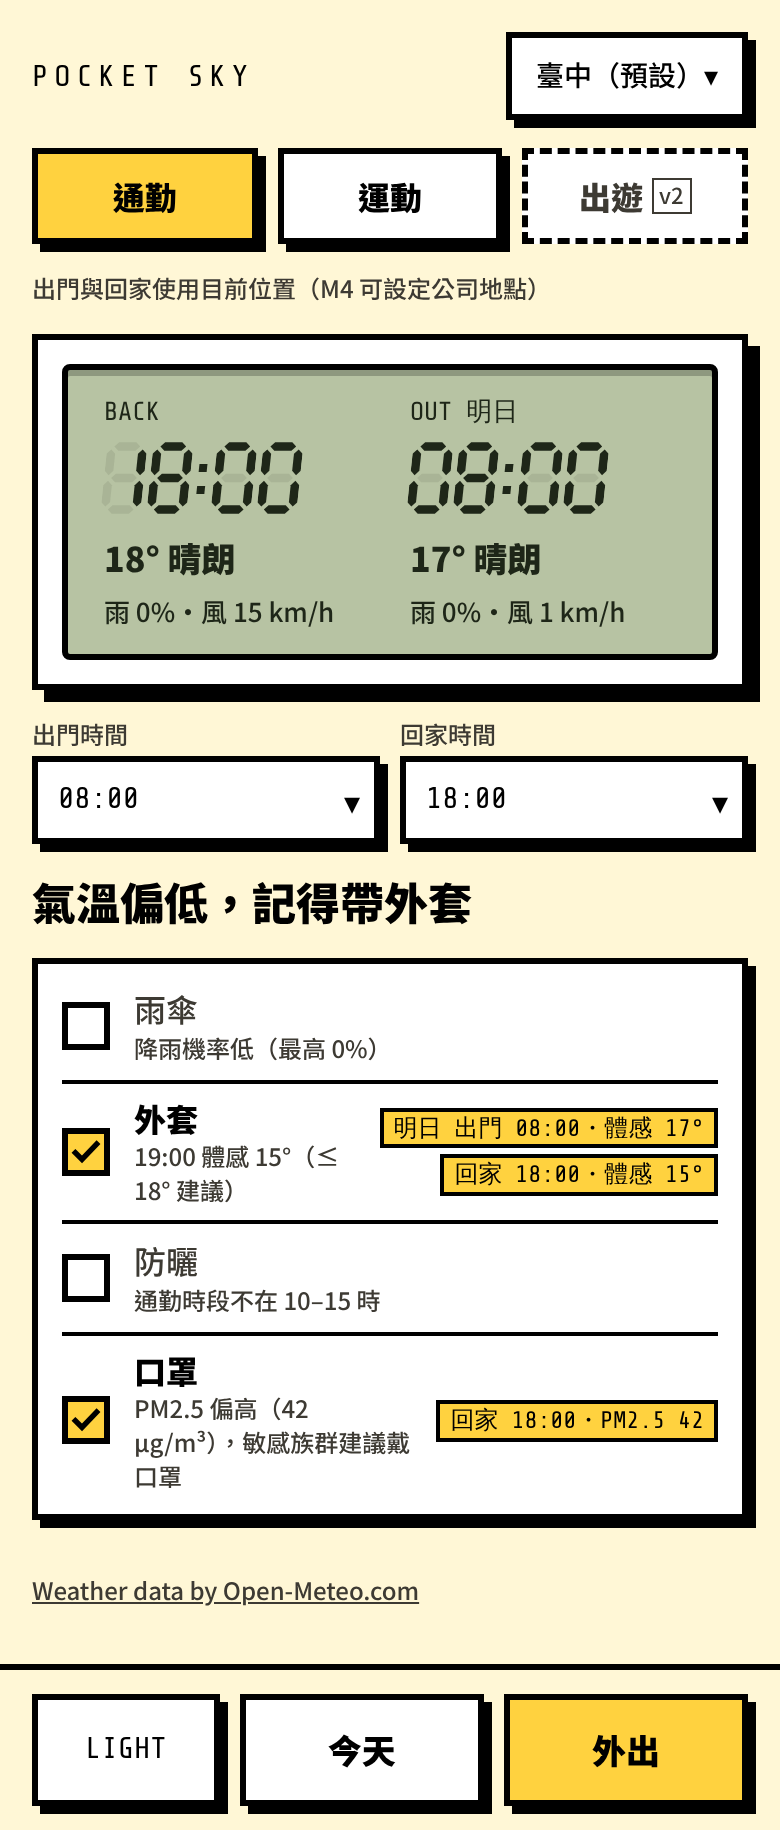
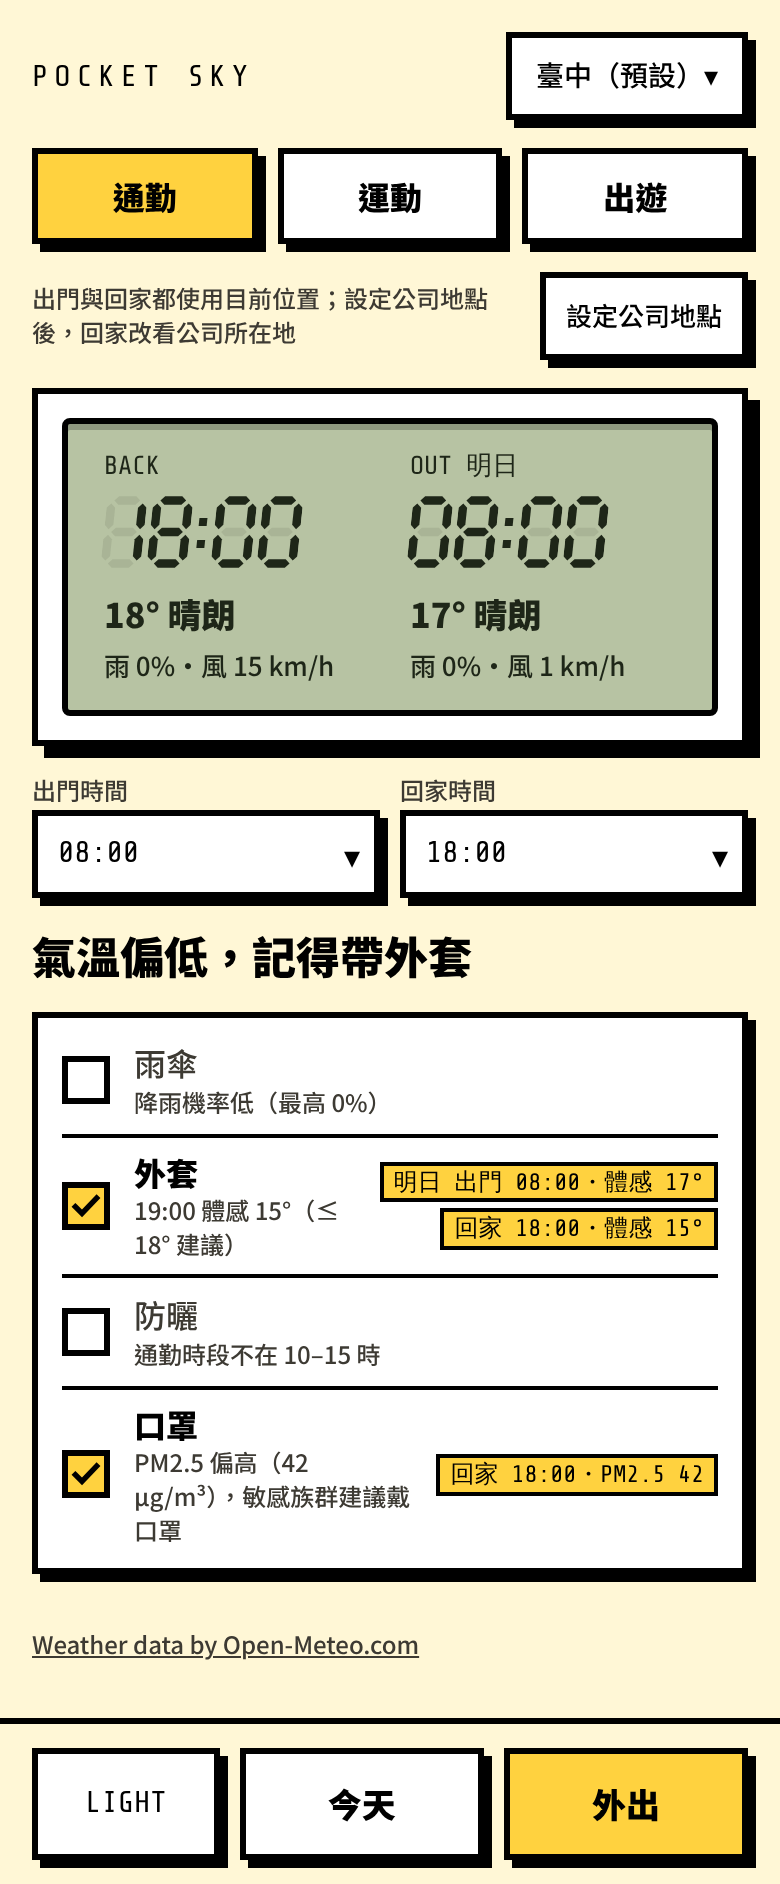
docs(m4): implementation notes, deviations and screenshots
Claude-Session: https://claude.ai/code/session_01Wh9v8ZCiq8tKrRc79SNtfj

Changed region(s): [[0.0, 0.0311, 1.0, 0.9656]]

diff --git a/docs/ARCHITECTURE.md b/docs/ARCHITECTURE.md
@@ -176,7 +176,7 @@ Tokens live in `css/tokens.css` as CSS custom properties; `[data-theme="night"]`
 
 ## M3 — Outing screen (commute & exercise)
 
-Scope: `#outing` with scenario chips 通勤 / 運動 / 出遊 (出遊 disabled, labelled `v2`, `aria-disabled="true"`). Both scenarios use the current location (separate work location and destinations arrive with geocoding search in M4). Visual references (approved wireframes): "A2 外出：通勤" and "A3 外出：運動".
+Scope: `#outing` with scenario chips 通勤 / 運動 / 出遊. (M3 shipped 出遊 disabled as `v2` and a single location; both are superseded by M4 below.) Visual references (approved wireframes): "A2 外出：通勤" and "A3 外出：運動".
 
 ### Routing & persistence
 - Hash routes: `#outing` (opens the last used scenario, default commute), `#outing/commute`, `#outing/exercise`. Bottom key 外出 stays `aria-current` for all of them.
@@ -273,3 +273,15 @@ Scope: a location picker with geocoding search and up to 5 saved places; a work 
 - Unit: places-state (dedupe, max 5, pinned eviction, removal clears refs, invalid storage), searchVariants/searchWithFallback (台→臺 order, empty query, dedupe, Taiwan-first sort), trip rules (window today/tomorrow/wrap, bestWindow ties/min length/nulls, tempDiff, headline branches), controller multi-place (lazy fetch, separate keys, onUpdate routing to the right place, work/trip place errors don't break current).
 - E2E: picker open/close/Esc/focus return; search `台中` → retries `臺中` → result → add → select → Today shows it; delete; max-5 behaviour; set work → commute BACK uses work fixture (synthetic distinct temps); trip with destination fixture (Sun Moon Lake from `forecast-multi.json` element 1) shows diff `-6`-style value computed from fixtures, comfort strip, best window; trip empty state; network error in search; manifest link valid JSON with icons that load (200); axe 0 serious/critical for picker (open dialog) and trip (day/night); no console errors/CSP violations; screenshots `docs/screenshots/m4/` (`picker.png`, `picker-results.png`, `commute-work.png`, `trip-day.png`, `trip-night.png`, `trip-empty.png`) gated by `E2E_SCREENSHOTS=1`.
 - Contract test: geocoding `臺中市` returns ≥ 1 Taiwan result. **Decision (lead, from live API probing 2026-11-21):** the geocoder only matches full Chinese names with their administrative suffix. `臺中市`, `台北市`, `花蓮市` and `日月潭` hit; `台中`, `臺中`, `花蓮`, `花蓮縣` and `墾丁` return 0; English (`Hualien`, `Taichung`) works well. Hence `searchVariants` tries the original, the 台/臺-swapped spelling (`臺中市` hits but `台北市` hits and `臺北市` does not, so both spellings are needed) and the `市`-suffixed forms. Counties (`花蓮縣`) and scenic names without a matching record (`墾丁`) still need an English name, which the empty-state hint suggests.
+
+### M4 implementation notes and decisions
+- **Controller** (`js/app/controller.js`): state gains `current` (`'gps'` or a place id) and `places` (`{ [forecastCacheKey]: { status, vm, error, fetchedAt } }`). `selectCurrent(id)` (persists `ps:current`; unknown id or `'gps'` relocates; a pending GPS request never overrides a later choice), `ensurePlace(place, { keep, force })` (idempotent, lazy, own forecast+air cache keys and SWR, errors only in `places[key]`), `placeKey(place)`. At most `MAX_EXTRA_PLACES = 2` extras (work + trip) are kept, so with the current place at most 3 are live; eviction drops the least recently ensured key not in `keep`. `init()` restores `ps:current` without asking for the GPS position. `tick()` and `refreshIfStale()` also serve the extras. Extras use `toViewModel({ hoursAhead: EXTRA_HOURS = 36 })` (new optional parameter, default 24) so the default trip window 09:00-16:00, which is tomorrow's when seen in the afternoon, is complete; the current place keeps 24.
+- **Fetch triggers** (`main.js`): `ensurePlace` runs after a render when the (route, places) signature changes: the work place on commute, the trip place on trip. Failures are retried by revisiting the view, by the visibility refresh, or by the 重試 key (`data-action="retry-place"`).
+- **Picker** (`js/ui/views/places.js` pure reducer/model/template, `js/app/picker.js` dialog logic): native `<dialog id="picker">` in `index.html`, `showModal()`, focus starts on the first control (the 關閉 key, so no on-screen keyboard pops up), Tab is wrapped inside the dialog, Esc / × / backdrop close it and focus returns to the opener (found again by id or `data-action` if it was re-rendered, else `<main>`). Contents are morphed with keyed blocks so the search input keeps its value and focus. Saved rows have toggle buttons `目前` / `公司` / `出遊` (`aria-pressed`, names like `公司地點：新竹・新竹縣`) and `刪除 …`; the key that matches the mode is the accent key and completes the task by closing the dialog (current: 目前; work: 公司; trip: 出遊; in work/trip mode `加入` also sets and closes; in current mode `加入` keeps the picker open and moves focus to the new row's 目前 key). Search: 400 ms debounce, Enter searches at once, 1 character minimum, stale responses ignored, `searchWithFallback` variants. One polite live node (`#pk-live`) carries `搜尋中…`, `找到 N 個地點`, `找不到「…」`, `搜尋失敗，請稍後再試` and action messages (`已加入 …，並移除最舊的 … （最多 5 個）`, `已刪除 …`). Deleting the current or evicting it falls back to GPS. The location key (`#loc-btn`) now opens the picker (`aria-haspopup="dialog"`, label `{name}，選擇地點`); choosing 目前位置 relocates, and focus returns to the key once locating ends.
+- **Commute**: `commuteModel(vm, commute, work)`; BACK uses the work place's hours (`BACK・{name}`, aria `回家 18:00，公司 {name}`), OUT the current place's; a loading or failed work place leaves OUT intact (headline `公司天氣載入中…` / `公司天氣暫時無法取得`, BACK detail `載入中` / `無法取得資料`, retry key). The M3 note is replaced by `workNote()` plus the 設定公司地點 key (always shown; opens the picker in work mode).
+- **Trip**: `tripModel`/`tripHtml` in `js/ui/views/trip.js`; `ps:outing` gains `scenario: 'trip'` and `trip: { start, end }` (defaults 9/16). Chips are the saved places (toggle, `aria-pressed`) plus `＋ 搜尋`. The diff is drawn in seg7 (`-6`; a positive value shows a separate `+` sign because seg7 has no plus glyph); elevation is the forecast grid elevation (`vm.location.elevation`, e.g. 747 m) with the geocoder's as fallback. `!RAIN` (blink, the only infinite animation) is followed by the first wet hour. The comfort strip is an ordered list: bar length = comfort, colour by level (good `--ink`, ok `--rain`, bad `--alert`, each in a 2 px outlined track), best window = hard 3+3 px ring (no colour needed), `明日` under tomorrow's hour; every row has one sr-only sentence (`明日 09:00，18度，降雨 0%，舒適度 99，適合，最佳時段`). Checklist reuses `checklistHtml` with attribution tags (`15:00・降雨 70%`, `全程・溫差 7°`).
+- **Manifest/icons**: `manifest.webmanifest`, `icons/icon.svg` (seg7 "PS" on LCD glass, 3 px-style ink border, content inside the maskable safe zone) and PNGs rendered by `scripts/gen-icons.mjs` (preinstalled Playwright Chromium; the PNGs are committed). CSP now also allows `connect-src https://geocoding-api.open-meteo.com` (required by the search) and `manifest-src 'self'`.
+- **Timers**: `createPicker` / `createDebouncedAnnouncer` default to `globalThis.setTimeout(...)` called as methods, and the picker's debounce also compares a sequence number, so a timer that survives a later keystroke does nothing. Note for e2e: Playwright's fake clock (`page.clock`) fires pending timers early unless the page keeps reading the clock; the debounce test therefore polls `performance.now()` (real browsers are unaffected, verified without `page.clock`).
+- **Deviations from the wireframe**: no 目前位置 chip among the trip destinations (a destination equal to the origin is meaningless; with none chosen the empty state shows); `!RAIN 13:00` instead of `!13:00 RAIN`; the diff for a positive value has a separate `+`; hour selects are labelled `開始時間` / `結束時間` selects.
+- **Known limitations**: the trip window only covers hours the forecast has (through tomorrow 23:00); the picker offers no result paging (max 8 results); a county or scenic name the geocoder does not know (`花蓮縣`, `墾丁`) still needs an English name.
+- **Screenshots** (`docs/screenshots/m4/`, `E2E_SCREENSHOTS=1`): `picker`, `picker-results`, `commute-work`, `trip-day` (showers 15-18 so `!RAIN` and a best window show), `trip-night`, `trip-empty`.
